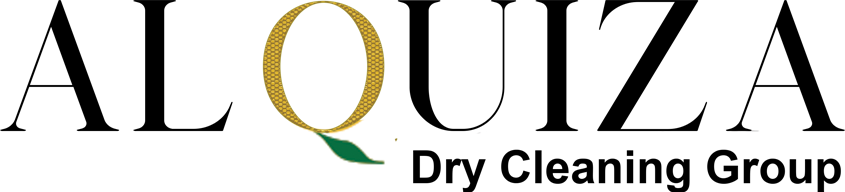
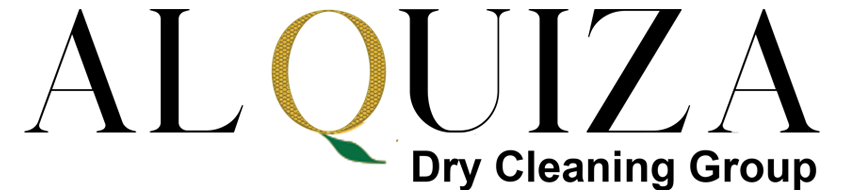
fix
add background and fix logos and text

diff --git a/index.html b/index.html
@@ -36,6 +36,21 @@
                 /*setting alpha = 0.6*/
                 background: rgba(0, 151, 19, 0.6);
             }
+            
+
+div.transbox {
+  margin: 5px;
+
+  background-color: #ffffff;
+  border: 1px solid black;
+  opacity: 0.6;
+}
+
+div.transbox p {
+  margin: 5%;
+  font-weight: bold;
+  color: #000000;
+}
         </style>
 
  <!--    <style type="text/css">
@@ -148,24 +163,20 @@
 	<div id="header-wrapper" class="header-slider">
 		<header class="clearfix">
 			<div class="logo">
-					<img src="img/alquiza.png" alt="" width="275px" />
-				<img src="img/dceLogo.png" alt="" width="275px" />
+					<img src="img/alquiza.png" alt="" width="300px" />
+				<img src="img/dceLogo.png" alt="" width="300px" />
 				<div class="blankdivider30"></div>
 				<div class="aligncenter">
-					<br>
-					<br><br>
-					<br>
-					<br><br>
-						<img src="img/Header2.png" alt="" width="752px" />
-						<!-- <h3><font color="#fff"><strong>WEEKEND PROCESSING AT PECKHAM LOCATION ONLY</strong></font></h3> -->
+					<h1><strong>Dry Cleaning & Laundry Done <br>
+					7 days A Week</strong></h1>
+					<h2> Weekend Processing @ Peckham </h2>
+					
+					
+						
 
 					</div>
 					<div class="aligncenter">
-						<br><br>
-						<br>
-						<br><br>
-
-						<br>
+						
 						<br><br>
 					<a href="https://kingdrycleaners.smrtapp.com/customer/" target="_blank" class="btn btn-large btn-theme">Sign In</a> |
 					<a href="https://kingdrycleaners.smrtapp.com/customer/?page=register" target="_blank" class="btn btn-large btn-theme">Sign Up</a>
@@ -422,7 +433,10 @@
 						<br>
 						<br>
 						<br>
-						<img src="img/Header2.png" alt="" width="752px" />
+							<h1 style="color: white"><strong>Dry Cleaning & Laundry Done <br>
+					7 days A Week</strong></h1>
+					<h2 style="color: white"> Weekend Processing @ Peckham </h2>
+					
 							<!-- <h3><font color="#fff"> Dry Cleaning and Laundry Done, 7 Days a Week</font></h3> -->
 
 				</div>
@@ -505,7 +519,12 @@
 				  <div class="container">
 					<div class="row">
 					<div class="span12 aligncenter flyLeft">
-					<h1 style="color:black;"><strong> REVIEWS AND FEEDBACK</strong></h1><br>
+
+
+							
+					<img src="img/feedbacks.png" alt="" width="500px" />
+
+				
 						<div id="carousel-example-generic" class="carousel slide" data-ride="carousel">
 							<div class="carousel-inner">
 							<div class="item active">
@@ -588,7 +607,10 @@
 	<div class="container">
 		<h4><strong>Our Prices</strong></h4>
 		<div class="aligncenter">
-			<img src="img/Header2.png" alt="" width="752px" />
+				<h1 style="color: black"><strong>Dry Cleaning & Laundry Done <br>
+					7 days A Week</strong></h1>
+					<h2 style="color: black"> Weekend Processing @ Peckham </h2>
+					
 		</div>
 			<br>
 				<br>
